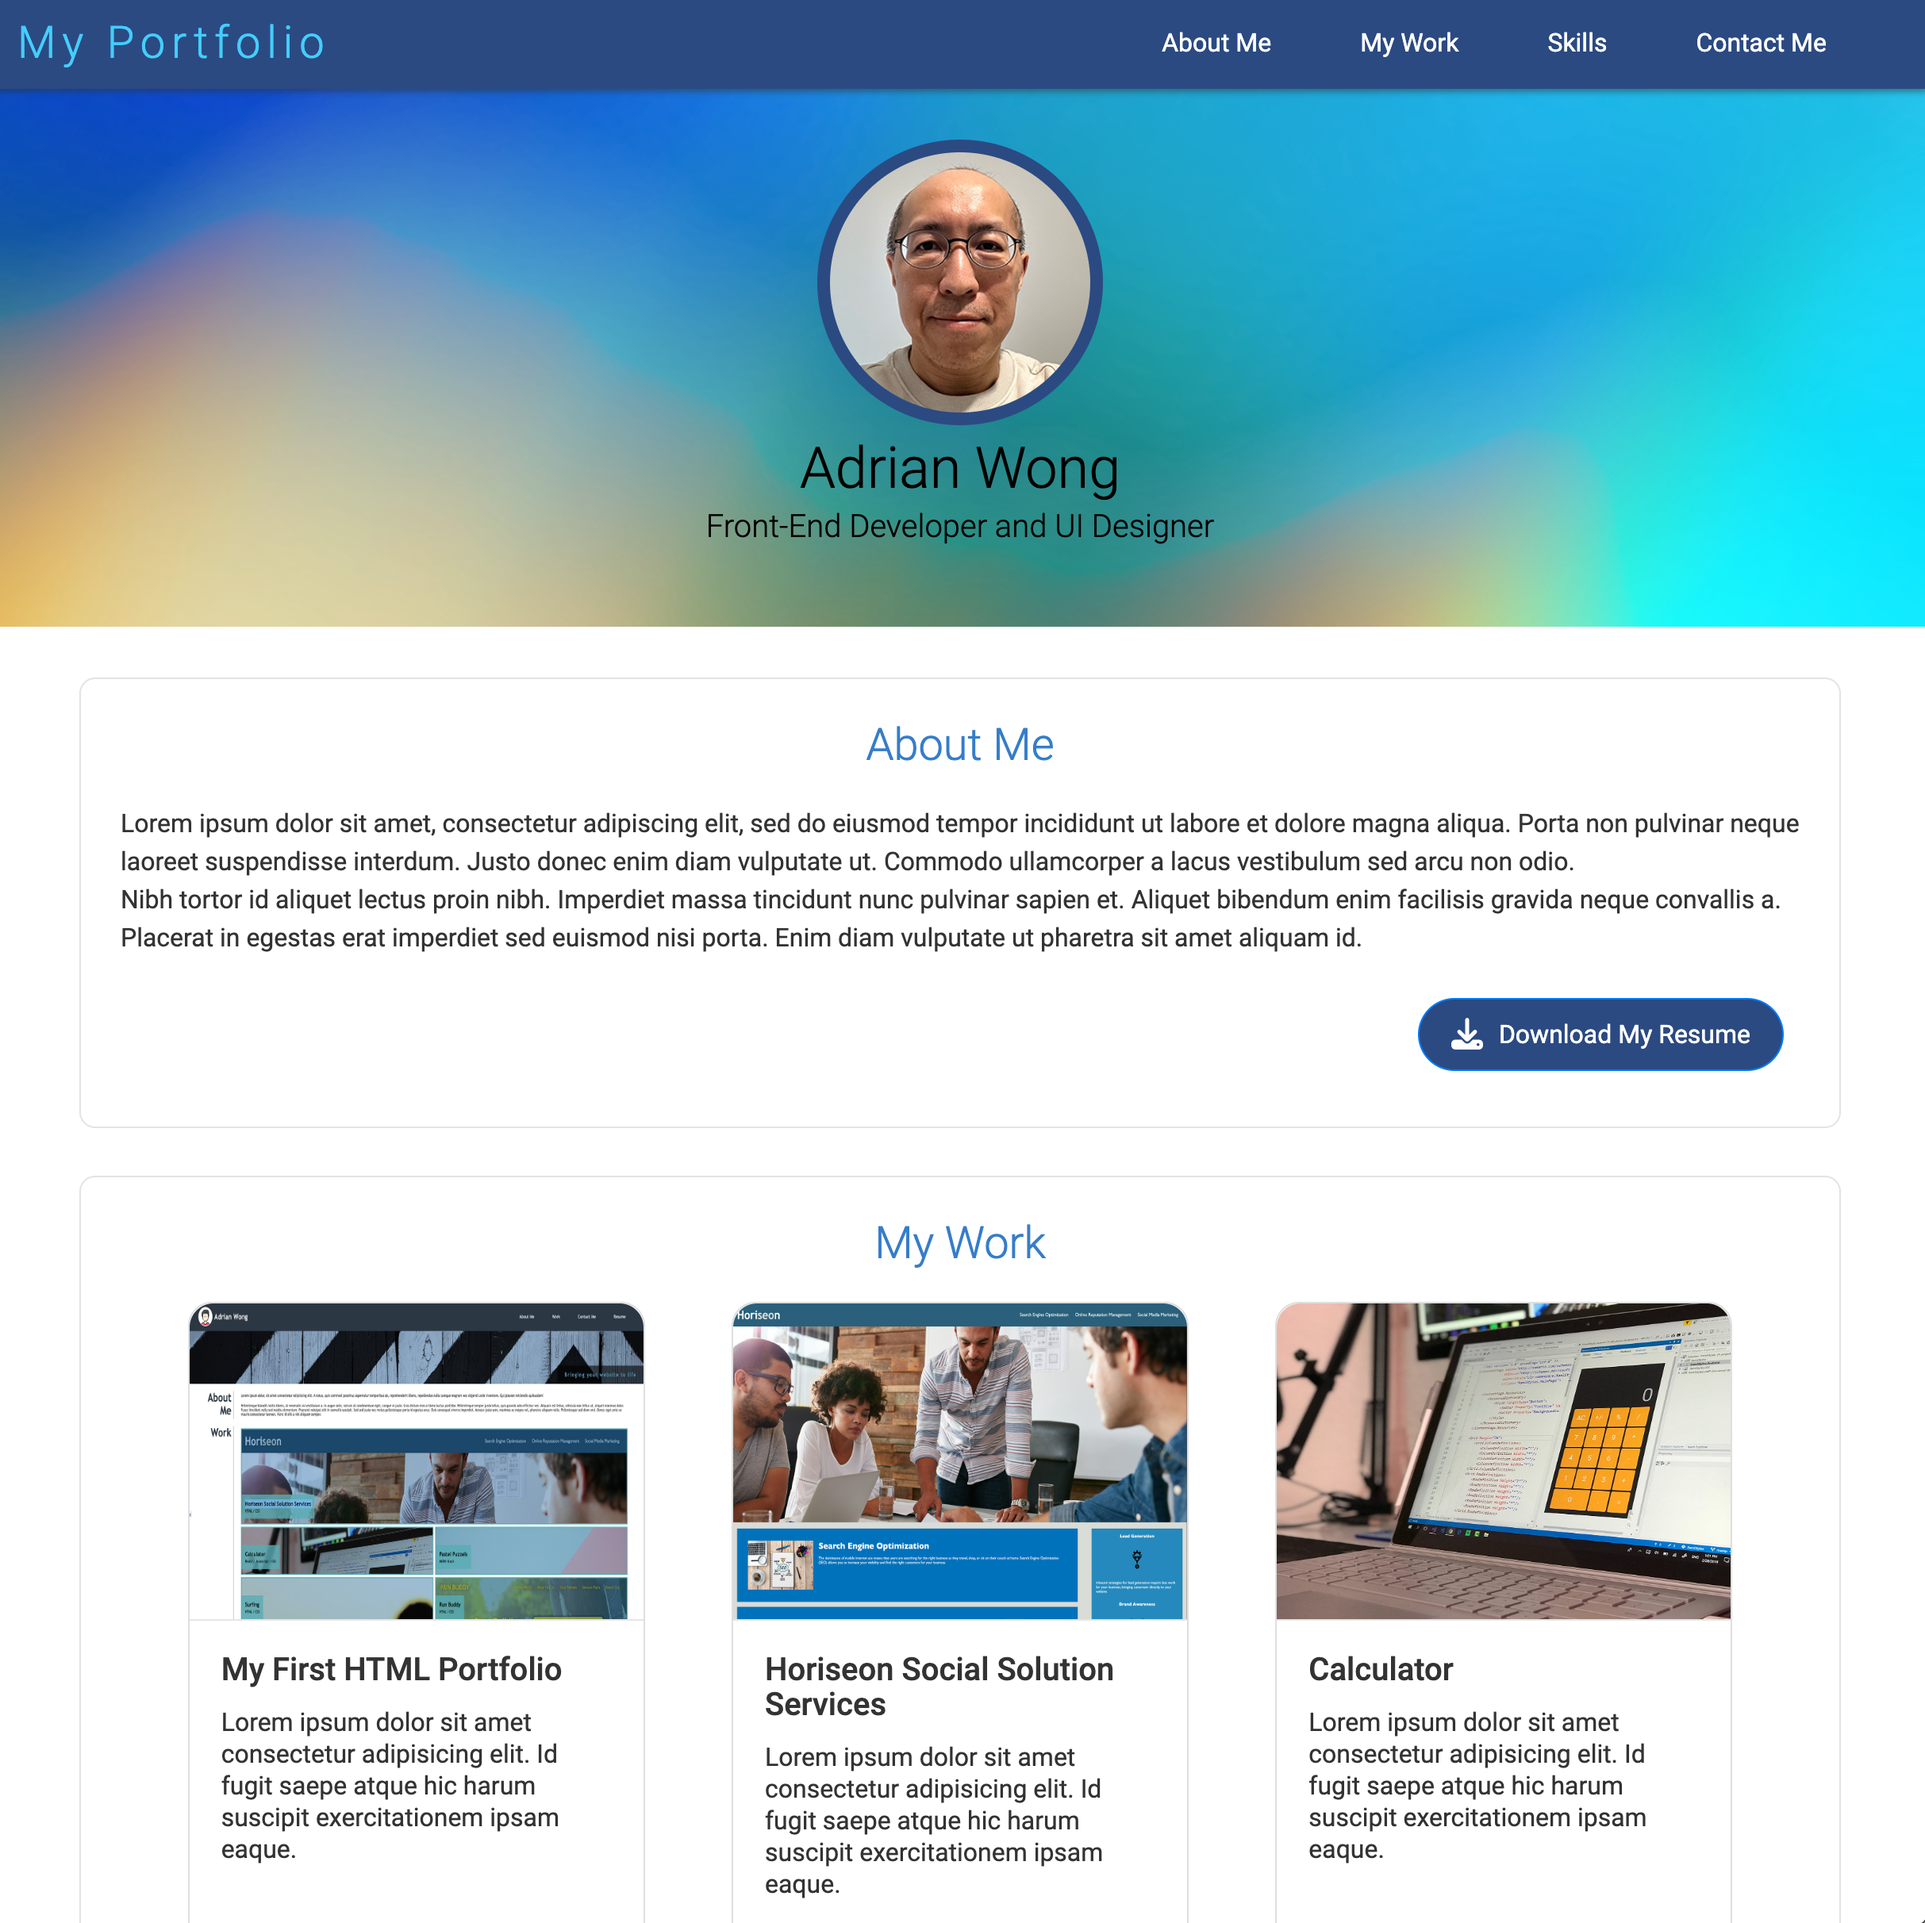
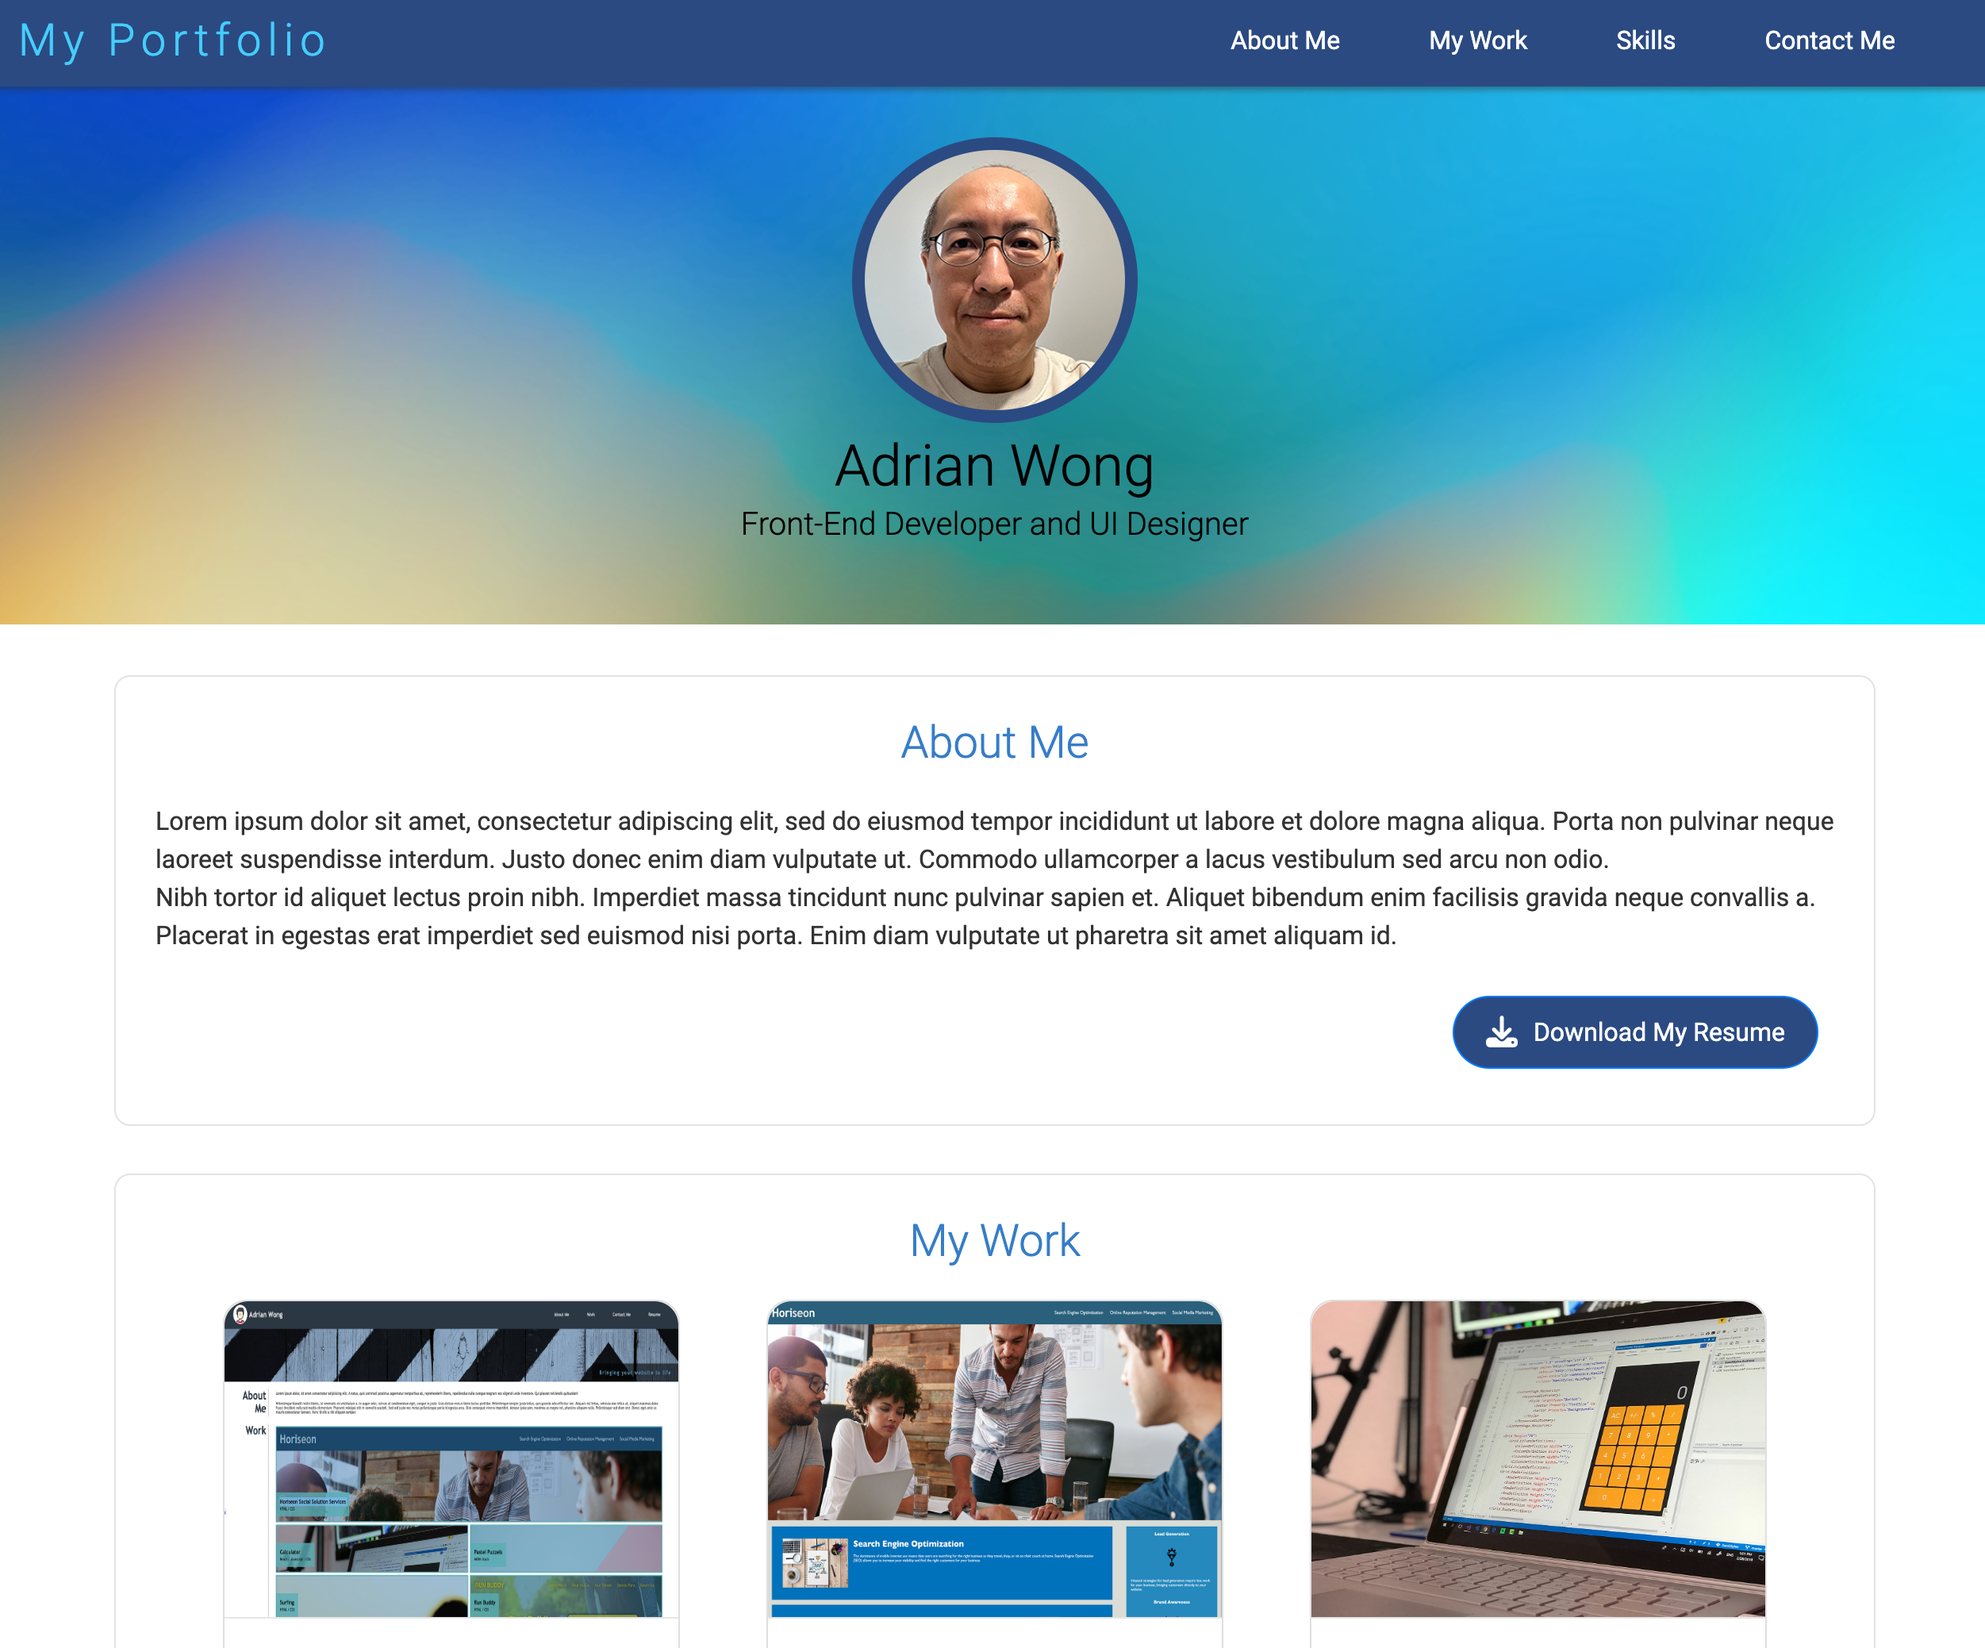
Update screenshot image, modified Project component and its css, modififed index.css, added description key in JSON.

diff --git a/src/css/Project.css b/src/css/Project.css
@@ -1,13 +1,13 @@
 :root {
     --card_bdr_radius: 15px;
-    --catd_height: 180px;
+    --catd_height: 250px;
 }
 
 .card-container {
     display: flex;
     justify-content: center;
     align-items: flex-start;
-    margin-bottom: 25px;
+    margin-bottom: 50px !important;
     text-decoration: none;
     color: #333;
 }
@@ -23,7 +23,6 @@
 }
 
 .card:hover {
-    cursor: pointer;
     -webkit-box-shadow: 4px 3px 14px 2px rgba(50, 50, 50, 0.5);
     -moz-box-shadow:  4px 3px 14px 2px rgba(50, 50, 50, 0.5);
     box-shadow: 4px 3px 14px 2px rgba(50, 50, 50, 0.5);
@@ -33,7 +32,7 @@
     position: relative;
     height: var(--catd_height);
     font-family: "Albert Sans";
-    font-size: 16px;
+    font-size: 14px;
     color: #333;
 }
 
@@ -45,41 +44,52 @@
 }
 
 .card-title {
-    font-size: 20px;
+    font-size: 22px;
     font-weight: 600;
     line-height: 20px;
-    color: #333;
+    color: #12427C !important;
 }
 
 .card-text {
-    display: flex;
-    justify-content: flex-start;
-    align-items: flex-start;
-    font-size: 15px;
-}
-
-.card-text  span {
-    display: block;
-    line-height: 18px;
-    margin-right: 6px;
-    font-size: 12px;
-    background-color: #eeeeee;
-    padding: 1px 10px;
-    border-radius: 50px;
+    font-size: 16px;
     font-weight: 400;
-    margin-top: 6px;
+    line-height: 18px;
 }
 
-.card-text  span:last-child {
+.card-container .btn_wrapper {
+    position: absolute;
+    bottom: 20px;
+    left: 0;    
+    width: 100%;
+    display: flex;
+    justify-content: center;
+    align-items: center;
+}
+
+.card-container .btn_wrapper a {
+    margin-right: 10px;
+    text-decoration: none;
+    font-size: 16px;
+    font-weight: 400;
+    color: #FFF;
+    border-radius: 30px;
+    padding: 4px 20px;
+    background-color: #4F5965;
+    -webkit-transition: all 0.3s ease;
+    -moz-transition: all 0.3s ease;
+    -o-transition: all 0.3s ease;
+    transition: all 0.3s ease;
+}
+
+.card-container .btn_wrapper a:hover {
+    background-color: #303944;
+    -webkit-box-shadow: 0px 2px 8px 0px rgba(50, 50, 50, 0.75);
+    -moz-box-shadow:  0px 2px 8px 0px rgba(50, 50, 50, 0.75);
+    box-shadow: 0px 2px 8px 0px rgba(50, 50, 50, 0.75);
+}
+
+.card-container .btn_wrapper a:last-child {
     margin-right: 0;
 }
 
-.find_out_more {
-    position: absolute;
-    width: 32px;
-    height:32px;
-    right: 20px;
-    bottom: 20px;
-    background: url("../assets/images/right_arrow.png") 0 0 no-repeat;
-    background-size: cover;
-}
+

diff --git a/src/components/Project.js b/src/components/Project.js
@@ -11,8 +11,12 @@ const Project = (props) => {
             <div className="card-body">
                 <h5 className="card-title">{props.title}</h5>
                 <p className="card-text">
-                {/* <span>HTML</span><span>JAVASCRIPT</span><span>CSS</span> */}
+                {props.des}
                 </p>
+                <div className="btn_wrapper">
+                    <a href={props.deployURL}>Demo</a>
+                    <a href={props.repo}>Repo</a>
+                </div>
             </div>
         </div>
     </div>

diff --git a/src/index.css b/src/index.css
@@ -10,7 +10,7 @@ body {
 /** Button Styles **/
 
 .btn-default {
-  background-color: #303944;
+  background-color: #4F5965;
   color: #FFF;
   border: none;
   border-radius: 25px;
@@ -25,7 +25,7 @@ body {
 }
 
 .btn-default:hover {
-  background-color: #4F5965;
+  background-color: #303944;
   -webkit-box-shadow: 0px 2px 8px 0px rgba(50, 50, 50, 0.75);
   -moz-box-shadow:  0px 2px 8px 0px rgba(50, 50, 50, 0.75);
   box-shadow: 0px 2px 8px 0px rgba(50, 50, 50, 0.75);

diff --git a/src/components/Projects.js b/src/components/Projects.js
@@ -17,6 +17,7 @@ const Projects = () => {
               key={project.id}
               id={project.id}
               image = {project.image}
+              des = {project.des}
               title={project.title}
               deployURL={project.deployLink}
               repo = {project.github_repo}
